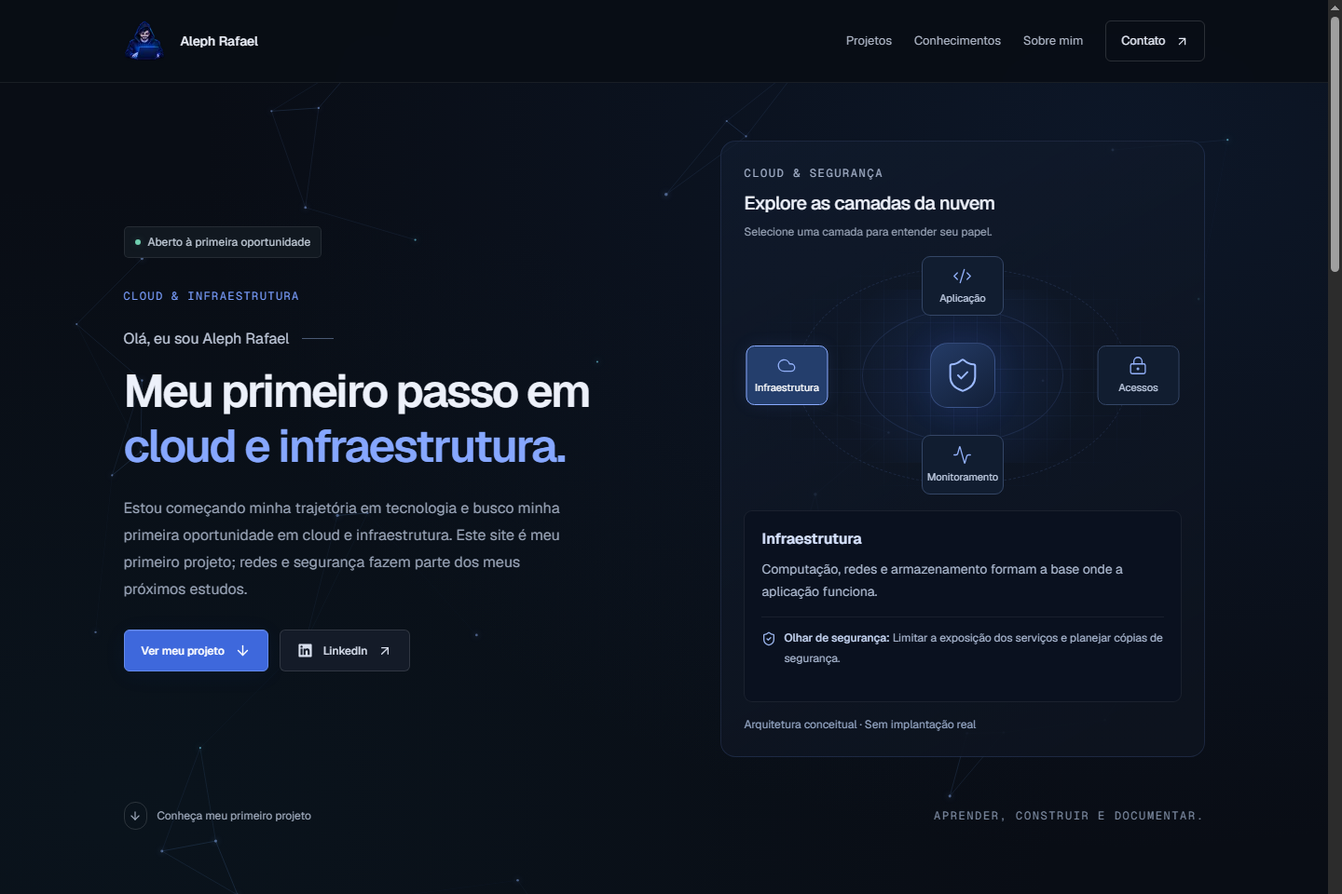
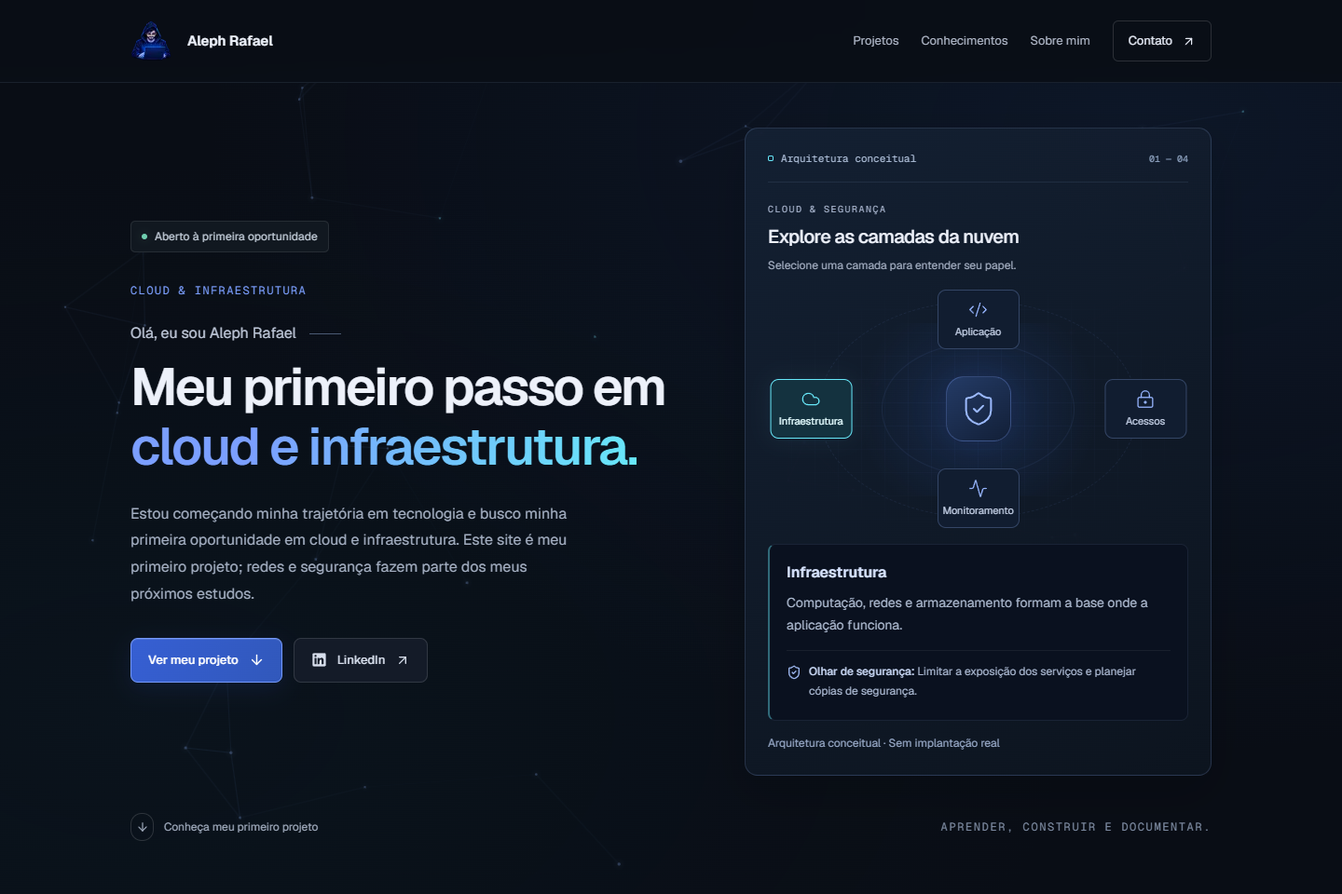
feat: atualização visual

diff --git a/app/globals.css b/app/globals.css
@@ -7,32 +7,48 @@
   --font-mono: "Geist Mono", monospace;
 }
 
-:root { color-scheme: dark; --bg: #090d15; --surface: #101620; --text: #edf1fa; --muted: #98a3b6; --blue: #7b9fff; --line: #ffffff12; }
+:root {
+  color-scheme: dark;
+  --bg: #090d15;
+  --surface: #101620;
+  --surface-raised: #142033;
+  --text: #edf1fa;
+  --muted: #a4afc2;
+  --blue: #7b9fff;
+  --cyan: #67e8f9;
+  --line: #9ab7e51c;
+  --border-panel: #8babe533;
+  --radius-panel: 14px;
+  --radius-control: 8px;
+  --shadow-panel: 0 18px 50px #00000026;
+  --shadow-active: 0 0 22px #67e8f914;
+  --transition: 200ms ease;
+}
 * { box-sizing: border-box; }
 html { scroll-behavior: smooth; scroll-padding-top: 105px; }
 body { margin: 0; background: var(--bg); color: var(--text); font-family: var(--font-sans); -webkit-font-smoothing: antialiased; isolation: isolate; }
 main, .site-footer { position: relative; z-index: 1; }
 /* Fixed decorative layer: never participates in page layout or hit testing. */
 .network-background { position: fixed; inset: 0; z-index: 0; pointer-events: none; overflow: hidden; background: radial-gradient(ellipse at 85% 15%, #18346040, transparent 58%), radial-gradient(ellipse at 10% 80%, #10384626, transparent 55%), #090d15; }
-.network-canvas { display: block; width: 100%; height: 100%; pointer-events: none; }
+.network-canvas { opacity: .55; display: block; width: 100%; height: 100%; pointer-events: none; }
 .background-toggle { position: fixed; right: max(16px, env(safe-area-inset-right)); bottom: max(16px, env(safe-area-inset-bottom)); z-index: 40; display: inline-flex; align-items: center; justify-content: center; gap: 9px; min-height: 44px; min-width: 44px; max-width: calc(100% - 32px); padding: 10px 14px; border: 1px solid #4b6895; border-radius: 8px; background: #111e33f5; color: #ccdbf7; box-shadow: 0 4px 20px #0004; font-size: 12px; line-height: 1.5; }
 .background-toggle:hover { background: #213858; border-color: #91b0ef; }
 body > .site-footer { padding-bottom: calc(80px + env(safe-area-inset-bottom, 0px)); }
 ::selection { background: #416ee5; color: white; }
 a { text-decoration: none; }
 button, a { -webkit-tap-highlight-color: transparent; }
-a:focus-visible, button:focus-visible, [tabindex]:focus-visible { outline: 2px solid #9eb9ff; outline-offset: 6px; border-radius: 4px; }
+a:focus-visible, button:focus-visible, [tabindex]:focus-visible { outline: 2px solid var(--cyan); outline-offset: 6px; border-radius: 4px; }
 .container { width: min(1160px, calc(100% - 96px)); margin-inline: auto; }
 .site-header { position: sticky; top: 0; z-index: 30; background: #090d15eb; border-bottom: 1px solid var(--line); backdrop-filter: blur(18px); }
 .header-inner { height: 88px; display: flex; align-items: center; justify-content: space-between; }
 .brand { display: inline-flex; align-items: center; gap: 15px; }
 .brand-avatar { width: 44px; height: 44px; flex-shrink: 0; object-fit: contain; image-rendering: pixelated; }
-.brand-name { font-size: 14px; font-weight: 500; margin-left: 2px; }
+.brand-name { font-size: 15px; font-weight: 600; margin-left: 2px; }
 nav { display: flex; align-items: center; gap: 24px; font-size: 13px; color: #b0b8c8; }
 nav a { display: inline-flex; align-items: center; justify-content: center; min-height: 44px; min-width: 44px; transition: color .2s; }
 nav a:hover { color: white; }
 .nav-contact { display: flex; align-items: center; gap: 10px; padding: 10px 16px; border: 1px solid #ffffff24; border-radius: 6px; color: #e5eaf5; }
-.hero { position: relative; min-height: 697px; display: grid; grid-template-columns: minmax(0, 1.15fr) minmax(0, 1fr); gap: 44px; align-items: center; padding-top: 62px; padding-bottom: 118px; }
+.hero { position: relative; min-height: 697px; display: grid; grid-template-columns: minmax(0, 1.22fr) minmax(0, 1fr); gap: 48px; align-items: center; padding-top: 48px; padding-bottom: 110px; }
 .hero-copy { position: relative; z-index: 2; }
 .availability { display: inline-flex; align-items: center; gap: 8px; color: #c2ccd8; font-size: 12px; letter-spacing: .15px; padding: 7px 11px; border: 1px solid #ffffff17; background: #111820; border-radius: 5px; margin-bottom: 31px; }
 .availability > span { height: 6px; width: 6px; background: #6fceaf; border-radius: 50%; box-shadow: 0 0 9px #6fceaf38; }
@@ -41,35 +57,36 @@ nav a:hover { color: white; }
 .hero-eyebrow { color: var(--blue); font-size: 12px; letter-spacing: 1.4px; margin-bottom: 22px; }
 .hero-intro { display: flex; gap: 14px; align-items: center; font-size: 16px; margin-bottom: 14px; color: #bdc6d7; }
 .intro-line { width: 34px; height: 1px; background: #4a5a74; }
-h1 { font-size: clamp(34px, 3.42vw, 49px); letter-spacing: -2.1px; line-height: 1.22; font-weight: 600; }
-h1 > span { color: #86a7ff; }
-.hero-description { color: var(--muted); font-size: 16px; line-height: 1.8; max-width: 470px; margin: 23px 0 29px; }
+h1 { font-size: clamp(34px, 3.9vw, 56px); letter-spacing: -2.3px; line-height: 1.14; font-weight: 600; text-wrap: balance; }
+h1 > span { color: var(--blue); background: linear-gradient(105deg, var(--blue) 25%, var(--cyan)); background-clip: text; -webkit-background-clip: text; -webkit-text-fill-color: transparent; }
+.hero-description { color: var(--muted); font-size: 16px; line-height: 1.8; max-width: 480px; margin: 26px 0 32px; }
 .social-links { display: flex; align-items: center; gap: 12px; flex-wrap: wrap; }
-.button { min-height: 45px; display: inline-flex; align-items: center; justify-content: center; gap: 11px; padding: 0 18px; border-radius: 6px; font-size: 12px; font-weight: 500; transition: background .2s, border-color .2s, transform .2s; }
-.button:hover { transform: translateY(-2px); }
-.button-primary { background: #3e68dc; border: 1px solid #668ced; color: white; box-shadow: inset 0 1px 0 #ffffff17, 0 4px 24px #3155ca12; }
-.button-primary:hover { background: #4e79ed; }
+.button { min-height: 48px; display: inline-flex; align-items: center; justify-content: center; gap: 11px; padding: 0 18px; border-radius: var(--radius-control); font-size: 13px; font-weight: 500; transition: background var(--transition), border-color var(--transition), transform var(--transition), box-shadow var(--transition); }
+.button:is(:hover, :focus-visible) { transform: translateY(-2px); box-shadow: var(--shadow-active); }
+.button-primary { background: linear-gradient(115deg, #365fd3, #3158bb); border: 1px solid #7599fa; color: white; box-shadow: inset 0 1px 0 #ffffff24, 0 6px 24px #3155ca24; }
+.button-primary:is(:hover, :focus-visible) { background: #3d64ce; border-color: #a8c2ff; }
 .button-secondary { background: #141b28; border: 1px solid #ffffff20; color: #d8dfed; }
-.button-secondary:hover { background: #202a3c; border-color: #ffffff40; }
+.button-secondary:is(:hover, :focus-visible) { background: #202a3c; border-color: #8cacdc; }
 .hero-bottom { position: absolute; bottom: 33px; width: 100%; display: flex; align-items: center; justify-content: space-between; }
 .hero-bottom > a { min-height: 44px; color: #a2adbf; font-size: 12px; display: flex; align-items: center; gap: 11px; }
 .scroll-icon { display: grid; place-items: center; width: 25px; height: 30px; border-radius: 12px; border: 1px solid #ffffff24; }
 .hero-footnote { max-width: 45%; text-align: right; color: #7f8da4; font-family: var(--font-mono); font-size: 12px; letter-spacing: 1.6px; }
 
 /* Interactive conceptual architecture. */
-.cloud-explorer { min-width: 0; border: 1px solid #7495ea26; border-radius: 16px; background: linear-gradient(150deg, #121d30a6, #0d131e); padding: 24px; }
+.cloud-explorer { min-width: 0; border: 1px solid var(--border-panel); border-radius: var(--radius-panel); background: linear-gradient(150deg, #142033f5, #0d141ff5); padding: 24px; box-shadow: var(--shadow-panel); }
 .explorer-heading h2 { font-size: 20px; letter-spacing: -.5px; margin-top: 8px; }
 .explorer-heading > p:last-child { color: var(--muted); font-size: 12px; margin-top: 8px; line-height: 1.7; }
 .cloud-visual { position: relative; isolation: isolate; min-height: 265px; margin-block: 12px; }
-.visual-grid { position: absolute; inset: 0; background-image: linear-gradient(#6b92f314 1px, transparent 1px), linear-gradient(90deg, #6b92f314 1px, transparent 1px); background-size: 25px 25px; mask-image: radial-gradient(ellipse at center, #000 12%, transparent 75%); }
-.orbit { position: absolute; border: 1px solid #7495ea24; border-radius: 50%; inset: 6% 12%; pointer-events: none; }
+.visual-grid { position: absolute; inset: 0; background-image: linear-gradient(#6b92f30c 1px, transparent 1px), linear-gradient(90deg, #6b92f30c 1px, transparent 1px); background-size: 25px 25px; mask-image: radial-gradient(ellipse at center, #000 12%, transparent 75%); }
+.orbit { position: absolute; border: 1px solid #7495ea18; border-radius: 50%; inset: 6% 12%; pointer-events: none; }
 .orbit-outer { border-style: dashed; }.orbit-middle { inset: 23% 27%; }
 .core-halo { position: absolute; inset: 15%; background: radial-gradient(circle, #305ec335, transparent 70%); pointer-events: none; }
 .explorer-core { position: absolute; top: 50%; left: 50%; transform: translate(-50%, -50%); display: grid; place-items: center; width: 70px; height: 70px; border: 1px solid #7ca0f84a; border-radius: 19px; color: #9cbaff; background: linear-gradient(145deg, #243b66, #121f37); box-shadow: 0 0 35px #416cdc24; }
 .cloud-node { position: absolute; display: flex; align-items: center; justify-content: center; gap: 8px; min-height: 48px; padding: 10px 12px; border: 1px solid #344666; border-radius: 9px; background: #111d30; font-size: 12px; color: #c2cee4; transition: border-color .2s, background .2s; }
 .cloud-node > svg { flex-shrink: 0; color: #93b1fa; }
-.cloud-node:hover { background: #1e3050; }
-.cloud-node[aria-pressed="true"] { border-color: #8aabff; background: #243e6c; color: #fff; box-shadow: 0 0 18px #6a98ff1a; }
+.cloud-node:is(:hover, :focus-visible) { background: #1e3050; border-color: var(--cyan); }
+.cloud-node[aria-pressed="true"] { border-color: var(--cyan); background: #14323f; color: #e3fcff; box-shadow: var(--shadow-active); }
+.cloud-node[aria-pressed="true"] > svg { color: var(--cyan); }
 /* Responsive orbit with upright labels and a shared angular clock. */
 @property --orbit-angle { syntax: "<angle>"; inherits: false; initial-value: 0deg; }
 .cloud-visual { container-type: inline-size; }
@@ -80,12 +97,7 @@ h1 > span { color: #86a7ff; }
 .node-access { --orbit-start: 0deg; }
 .node-monitoring { --orbit-start: 90deg; }
 @keyframes cloud-orbit { to { --orbit-angle: 360deg; } }
-.cloud-explorer[data-orbit-paused="true"] .cloud-node,
-.cloud-explorer:hover .cloud-node,
-.cloud-explorer:focus-within .cloud-node { animation-play-state: paused; }
-.motion-toggle { display: inline-flex; align-items: center; gap: 7px; min-height: 44px; color: #c2cee4; font-size: 12px; }
-.orbit-toggle { margin-top: 8px; }
-.explorer-description { position: relative; min-height: 206px; padding: 18px; border-radius: 9px; border: 1px solid #ffffff12; background: #0a111f; }
+.explorer-description { position: relative; min-height: 190px; padding: 18px; border-radius: var(--radius-control); border: 1px solid var(--line); border-left: 2px solid #67e8f96b; background: #0a111f; }
 .explorer-description h3 { font-size: 16px; font-weight: 600; color: #d8e4ff; }
 .explorer-description > p { font-size: 14px; line-height: 1.75; color: #aebbd1; margin-top: 8px; }
 .explorer-security { display: flex; gap: 8px; margin-top: 14px; padding-top: 12px; border-top: 1px solid #ffffff10; }
@@ -127,8 +139,10 @@ h2 { font-size: 29px; line-height: 1.25; letter-spacing: -1px; font-weight: 500;
 .about-note > span { color: #8aacff; margin-top: 2px; }.about-note > p { color: #b8c9e7; font-size: 14px; line-height: 1.9; }
 .contact-wrap { padding-bottom: 72px; }.contact-panel { position: relative; overflow: hidden; background: linear-gradient(110deg, #121e35, #101827 65%, #15233c); border: 1px solid #6489dc35; border-radius: 12px; padding: 43px 48px; }
 .contact-content { position: relative; z-index: 1; }.contact-content h2 { max-width: 450px; font-size: 34px; line-height: 1.25; margin-top: 15px; }.contact-description { color: #aab7cf; font-size: 16px; line-height: 1.9; max-width: 420px; margin-top: 17px; margin-bottom: 24px; }
-.contact-arrow { position: absolute; right: 65px; top: 80px; width: 150px; height: 150px; color: #789fef; transform: rotate(-3deg); }
-.contact-decoration { position: absolute; right: -50px; top: -100px; width: 480px; height: 480px; border: 1px solid #7f9eed12; border-radius: 50%; box-shadow: 0 0 0 65px #779cfa06, 0 0 0 130px #779cfa04; }
+.contact-network { position: absolute; right: 36px; top: 50%; transform: translateY(-50%); width: 34%; max-width: 360px; color: var(--cyan); pointer-events: none; }
+.contact-network path { stroke: currentColor; stroke-opacity: .22; stroke-width: 1; }
+.contact-network circle { stroke: currentColor; stroke-opacity: .5; fill: #142638; }
+
 .site-footer { border-top: 1px solid var(--line); }.footer-main { display: flex; align-items: center; justify-content: space-between; padding-block: 31px; gap: 24px; }.footer-name { font-size: 12px; font-weight: 500; }.footer-name small { display: block; font-weight: 400; font-size: 12px; color: #96a1b4; margin-top: 5px; }.compact { gap: 24px; }.social-text { min-height: 44px; display: flex; align-items: center; gap: 8px; color: #afbbcf; font-size: 12px; transition: color .2s; }.social-text:hover { color: white; }.footer-bottom { display: flex; align-items: center; justify-content: space-between; gap: 20px; padding-block: 18px 24px; border-top: 1px solid var(--line); color: #8e9bb1; font-size: 12px; }.footer-bottom a { min-height: 44px; display: flex; align-items: center; gap: 7px; }
 
 
@@ -146,13 +160,13 @@ button, a, .project-carousel { touch-action: manipulation; }
 .cover-grid { position: absolute; inset: 0; z-index: -1; background-image: linear-gradient(#6684b811 1px, transparent 1px), linear-gradient(90deg, #6684b811 1px, transparent 1px); background-size: 34px 34px; }
 .cover-art { width: 100%; max-width: 390px; }
 .cover-caption { position: absolute; bottom: 28px; left: 20px; right: 20px; font-family: var(--font-mono); font-size: 12px; letter-spacing: 1px; text-align: center; color: #9eafd1; }
-.project-cover-image img { object-fit: cover; }
+
 .project-copy { padding: 34px; min-width: 0; display: flex; flex-direction: column; justify-content: center; }
 .project-status { display: flex; align-items: center; gap: 8px; color: #b0bdd1; font-size: 12px; line-height: 1.65; margin-bottom: 27px; }
 .project-status > span { width: 6px; height: 6px; flex-shrink: 0; border-radius: 50%; background: #97a6bf; }
 .status-real { color: #9cdbbf; }.status-real > span { background: #86cba9; }
-.project-category { font-size: 12px; letter-spacing: 1px; color: #98b4f5; }
-.project-copy h3 { font-size: 32px; font-weight: 500; letter-spacing: -1px; line-height: 1.2; margin-top: 10px; }
+.project-category { font-family: var(--font-mono); font-size: 12px; letter-spacing: 1px; color: #98b4f5; }
+.project-copy h3 { font-size: 34px; font-weight: 600; letter-spacing: -1px; line-height: 1.2; margin-top: 10px; }
 .project-description { color: #adb9ce; font-size: 16px; line-height: 1.8; margin-top: 18px; }
 .project-tags { margin-top: 20px; }
 .project-details { margin-top: 25px; border-top: 1px solid #ffffff12; padding-top: 19px; }
@@ -194,13 +208,41 @@ button, a, .project-carousel { touch-action: manipulation; }
 .security-ring { border: 1px solid #76b1c84d; box-shadow: 0 0 0 22px #7daacc08, 0 0 0 44px #7daacc05; border-radius: 50%; display: grid; place-items: center; width: 165px; height: 165px; margin: 15px auto 55px; color: #a4d2e6; background: #20394c; }
 .security-layers { display: flex; flex-wrap: wrap; justify-content: center; gap: 8px; }.security-layers > span { display: flex; align-items: center; gap: 7px; border: 1px solid #8fc0d52b; border-radius: 5px; padding: 9px 10px; color: #b6cfdc; font-size: 12px; background: #172a38; }
 
+/* Shared panel language and restrained technical details. */
+.explorer-toolbar { display: flex; align-items: center; gap: 8px; padding-bottom: 16px; margin-bottom: 20px; border-bottom: 1px solid var(--line); color: #adbed7; font-family: var(--font-mono); font-size: 11px; }
+.panel-indicator { width: 6px; height: 6px; border: 1px solid var(--cyan); border-radius: 2px; flex-shrink: 0; }
+.panel-index { margin-left: auto; color: #8fa3c1; font-size: 10px; white-space: nowrap; }
+.cloud-explorer .explorer-heading .eyebrow { font-size: 10px; letter-spacing: 1.5px; }
+.section-heading h2 { text-wrap: balance; }
+.eyebrow > span { color: var(--cyan); }
+.skill-card, .toolbox, .project-slide, .contact-panel { border-color: var(--border-panel); border-radius: var(--radius-panel); box-shadow: var(--shadow-panel); }
+.skill-card { background: linear-gradient(135deg, #142033, #0f1723 75%); }
+.skill-icon, .tool-mark { border: 1px solid var(--border-panel); border-radius: var(--radius-control); background: #19283c; }
+.skill-icon { color: var(--cyan); }
+.tags > span { border-color: var(--border-panel); border-radius: 5px; background: #111e30; font-family: var(--font-mono); font-size: 11px; line-height: 1.7; }
+.project-tags > span { color: #c6d8ff; border-color: #7b9fff40; }
+.project-slide { background: linear-gradient(135deg, #152135, #101722); }
+.project-status { font-family: var(--font-mono); }
+.project-details h4 { color: #dce8ff; }
+.project-details li { font-size: 13px; }
+.project-browser { width: 100%; min-width: 0; border: 1px solid #779bd255; border-radius: 10px; overflow: hidden; background: #090d15; box-shadow: 0 20px 50px #0005; }
+.project-browser-bar { display: flex; align-items: center; justify-content: space-between; gap: 10px; min-height: 38px; padding: 10px 13px; border-bottom: 1px solid var(--line); background: #172338; color: #acbdd6; font-family: var(--font-mono); font-size: 10px; }
+.browser-dots { display: flex; gap: 5px; }
+.browser-dots i { width: 5px; height: 5px; border-radius: 50%; background: #7385a0; }
+.browser-dots i:first-child { background: #7b9fff; }
+.project-browser-screen { position: relative; width: 100%; aspect-ratio: 3 / 2; }
+.contact-panel { background: radial-gradient(ellipse at 90% 50%, #16465b33, transparent 60%), linear-gradient(110deg, #14223b, #101827 70%); }
+nav a:is(:hover, :focus-visible), .social-text:is(:hover, :focus-visible) { color: var(--cyan); }
+.nav-contact:is(:hover, :focus-visible) { border-color: var(--cyan); }
+@media (forced-colors: active) { h1 > span { background: none; -webkit-text-fill-color: currentColor; } }
+
 @media (max-width: 1100px) {
   .container { width: calc(100% - 64px); }
   .hero { gap: 28px; }
   h1 { font-size: 38px; letter-spacing: -1.7px; }
   .brand-name { display: none; }
   .toolbox-label { padding-right: 20px; }.tools-grid { padding-left: 20px; gap: 10px; }
-  .about { gap: 50px; }.contact-arrow { right: 30px; width: 100px; opacity: .5; }
+  .about { gap: 50px; }.contact-network { right: 20px; opacity: .6; }
   .section-heading { align-items: start; }.section-heading > p { max-width: 320px; }
   .cloud-explorer { padding: 18px; }.cloud-node { padding-inline: 8px; gap: 5px; }
   .explorer-core { width: 50px; height: 50px; }.explorer-core svg { width: 29px; }
@@ -231,7 +273,7 @@ button, a, .project-carousel { touch-action: manipulation; }
   .project-copy { min-height: 450px; padding: 32px; }
   .project-status { margin-bottom: 22px; }
   .about { grid-template-columns: 1fr 1.1fr; gap: 32px; }.about h2 { font-size: 30px; }
-  .contact-panel { padding: 35px; }.contact-content h2 { max-width: 400px; }.contact-arrow { opacity: .15; }
+  .contact-panel { padding: 35px; }.contact-content h2 { max-width: 400px; }.contact-network { opacity: .25; }
   .contact-wrap { padding-bottom: 50px; }
 }
 @media (max-width: 600px) {
@@ -264,7 +306,7 @@ button, a, .project-carousel { touch-action: manipulation; }
   .carousel-hint { text-align: center; }
   .about { grid-template-columns: 1fr; gap: 30px; }.about h2 { max-width: 310px; font-size: 32px; }.about-copy { padding: 0; }
   .about-signature { margin-top: 23px; }.about-signature small { font-size: 12px; letter-spacing: 1px; }
-  .contact-panel { padding: 30px 23px; }.contact-content h2 { font-size: 29px; }.contact-arrow { display: none; }
+  .contact-panel { padding: 30px 23px; }.contact-content h2 { font-size: 29px; }.contact-network { display: none; }
   .contact-description { font-size: 16px; }.contact-panel .button { font-size: 12px; padding-inline: 13px; }
   .footer-main { align-items: start; flex-direction: column; gap: 20px; }.footer-bottom { align-items: start; flex-direction: column; gap: 4px; font-size: 12px; }.footer-bottom p { line-height: 1.8; }
   .footer-name small { font-size: 12px; line-height: 1.7; }
@@ -280,11 +322,12 @@ button, a, .project-carousel { touch-action: manipulation; }
 /* Keep orbit cards compact at every breakpoint. */
 .cloud-visual .cloud-node { padding: 6px 3px; font-size: 11px; gap: 5px; }
 @media (prefers-reduced-motion: reduce) {
-  .orbit-toggle { display: none; }
   .background-toggle { display: none; }
   html { scroll-behavior: auto; }
   *, *::before, *::after { animation: none !important; transition: none !important; }
-  .button:hover { transform: none; }
+  /* The cloud orbit deliberately runs continuously, including reduced motion. */
+  .cloud-node { animation: cloud-orbit 15s linear infinite !important; }
+  .button:is(:hover, :focus-visible) { transform: none; }
 }
 
 /* Evidence first: delivered work and future studies have distinct weight. */
@@ -292,14 +335,14 @@ button, a, .project-carousel { touch-action: manipulation; }
 .studies-heading h3, .interests-title { font-size: 18px; font-weight: 500; }
 .studies-heading > p { color: var(--muted); font-size: 14px; line-height: 1.8; margin-top: 8px; }
 .study-grid { display: grid; grid-template-columns: repeat(3, minmax(0, 1fr)); gap: 16px; margin-top: 20px; }
-.study-card { padding: 22px; border: 1px solid var(--line); border-radius: 10px; background: #0e1622; }
+.study-card { padding: 22px; border: 1px solid var(--line); border-radius: var(--radius-control); background: #0c131ee8; }
 .study-status { color: #aabbd7; font-family: var(--font-mono); font-size: 11px; text-transform: uppercase; letter-spacing: 1px; }
 .study-card h4 { font-size: 16px; font-weight: 500; margin-top: 12px; }
 .study-card h4 + p { color: var(--muted); font-size: 14px; line-height: 1.8; margin-top: 10px; }
 .study-card .tags { margin-top: 16px; }
 .knowledge .toolbox { margin-top: 0; }
 .interests-title { margin: 32px 0 18px; }
-.project-cover-image img { object-fit: contain; padding: 18px; }
+.project-cover-image img { object-fit: contain; padding: 0; }
 @media (max-width: 800px) { .study-grid { grid-template-columns: 1fr; } }
 
 @media (max-width: 360px) {

diff --git a/app/page.tsx b/app/page.tsx
@@ -78,7 +78,7 @@ export default function Home() {
       </section>
 
       <section id="contato" className="container contact-wrap" aria-labelledby="contact-title">
-        <ScrollReveal><div className="contact-panel"><div className="contact-decoration" aria-hidden="true" /><div className="contact-content"><p className="eyebrow"><span>04 /</span> VAMOS CONVERSAR</p><h2 id="contact-title">{p.contact.title}</h2><p className="contact-description">{p.contact.description}</p><SocialLinks /></div><ArrowUpRight className="contact-arrow" strokeWidth={0.8} aria-hidden="true" /></div></ScrollReveal>
+        <ScrollReveal><div className="contact-panel"><svg className="contact-network" viewBox="0 0 360 320" fill="none" aria-hidden="true"><path d="M36 160H132L212 80H324M132 160L212 240H324M212 80V240M212 160H324" /><circle cx="36" cy="160" r="6" /><circle cx="132" cy="160" r="9" /><circle cx="212" cy="80" r="6" /><circle cx="212" cy="240" r="6" /><circle cx="324" cy="80" r="4" /><circle cx="324" cy="160" r="4" /><circle cx="324" cy="240" r="4" /></svg><div className="contact-content"><p className="eyebrow"><span>04 /</span> VAMOS CONVERSAR</p><h2 id="contact-title">{p.contact.title}</h2><p className="contact-description">{p.contact.description}</p><SocialLinks /></div></div></ScrollReveal>
       </section>
     </main>
     <footer className="container site-footer"><div className="footer-main"><a className="brand" href="#inicio" aria-label="Voltar ao início"><BrandAvatar /><span className="footer-name">{p.name}<small>Cloud e infraestrutura · Em formação.</small></span></a><SocialLinks compact /></div><div className="footer-bottom"><p>{p.footerNote}</p><a href="#inicio">Voltar ao topo <ArrowRight size={13} className="-rotate-90" /></a></div></footer>

diff --git a/components/cloud-visual.tsx b/components/cloud-visual.tsx
@@ -1,21 +1,20 @@
 "use client";
 
 import { useId, useState } from "react";
-import { Activity, Cloud, Code2, LockKeyhole, Pause, Play, ShieldCheck } from "lucide-react";
+import { Activity, Cloud, Code2, LockKeyhole, ShieldCheck } from "lucide-react";
 import { cloudDiagram } from "@/content/portfolio";
 
 const icons = { code: Code2, cloud: Cloud, lock: LockKeyhole, activity: Activity };
 
 export function CloudVisual() {
   const [selected, setSelected] = useState<string>("infrastructure");
-  const [paused, setPaused] = useState(false);
   const id = useId();
   const node = cloudDiagram.nodes.find(item => item.id === selected) ?? cloudDiagram.nodes[1];
 
   return (
-    <section className="cloud-explorer" data-orbit-paused={paused} aria-labelledby={`${id}-title`}>
+    <section className="cloud-explorer" aria-labelledby={`${id}-title`}>
+      <div className="explorer-toolbar"><span className="panel-indicator" aria-hidden="true" />Arquitetura conceitual<span className="panel-index" aria-hidden="true">01 — 04</span></div>
       <div className="explorer-heading"><p className="eyebrow">CLOUD & SEGURANÇA</p><h2 id={`${id}-title`}>{cloudDiagram.title}</h2><p>{cloudDiagram.hint}</p></div>
-      <button type="button" className="motion-toggle orbit-toggle" onClick={() => setPaused(value => !value)}>{paused ? <Play size={15} aria-hidden="true" /> : <Pause size={15} aria-hidden="true" />}{paused ? "Retomar órbita" : "Pausar órbita"}</button>
       <div className="cloud-visual">
         <div className="visual-grid" aria-hidden="true" />
         <div className="orbit orbit-outer" aria-hidden="true" />

diff --git a/tests/interactions.test.tsx b/tests/interactions.test.tsx
@@ -209,7 +209,7 @@ test("autoplay pauses for interaction, visibility and explicit pause", t => {
   assert.equal(env.timers.size, 1);
 });
 
-test("reduced motion starts with autoplay off and orbit has a pause control", t => {
+test("reduced motion starts with autoplay off while cloud layers remain selectable without a pause control", t => {
   const env = autoplayEnvironment(t, true);
   const view = render(<ProjectCarousel projects={projects} />);
   assert.equal(env.timers.size, 0);
@@ -217,8 +217,9 @@ test("reduced motion starts with autoplay off and orbit has a pause control", t 
   assert.equal(env.timers.size, 1);
   view.unmount();
   const diagram = render(<CloudVisual />);
-  fireEvent.click(diagram.getByRole("button", { name: "Pausar órbita" }));
-  assert.equal(diagram.container.querySelector(".cloud-explorer")?.getAttribute("data-orbit-paused"), "true");
-  fireEvent.click(diagram.getByRole("button", { name: "Retomar órbita" }));
-  assert.equal(diagram.container.querySelector(".cloud-explorer")?.getAttribute("data-orbit-paused"), "false");
+  assert.equal(diagram.queryByRole("button", { name: /órbita/i }), null);
+  const application = diagram.getByRole("button", { name: "Aplicação" });
+  fireEvent.click(application);
+  assert.equal(application.getAttribute("aria-pressed"), "true");
+  assert.ok(diagram.getByRole("heading", { name: "Aplicação" }));
 });

diff --git a/components/project-cover.tsx b/components/project-cover.tsx
@@ -5,7 +5,14 @@ import type { Project } from "@/content/portfolio";
 
 export function ProjectCover({ cover }: { cover: Project["cover"] }) {
   if (cover.image) {
-    return <div className="project-cover project-cover-image"><Image src={cover.image} alt={cover.alt} fill sizes="(max-width: 800px) 100vw, 560px" /></div>;
+    return <div className="project-cover project-cover-image">
+      <div className="cover-grid" aria-hidden="true" />
+      <div className="project-browser">
+        <div className="project-browser-bar" aria-hidden="true"><span className="browser-dots"><i /><i /><i /></span><span>prévia do projeto</span><Globe size={14} /></div>
+        <div className="project-browser-screen"><Image src={cover.image} alt={cover.alt} fill sizes="(max-width: 800px) 90vw, 500px" /></div>
+      </div>
+      <span className="cover-caption" aria-hidden="true">INTERFACE · CÓDIGO · CONEXÕES</span>
+    </div>;
   }
 
   return (

diff --git a/README.md b/README.md
@@ -51,7 +51,7 @@ Com dois ou mais projetos reais, o carrossel alterna a cada 6 segundos em loop. 
 
 ## Diagrama e compartilhamento
 
-As explicações do diagrama ficam no objeto `cloudDiagram`, no mesmo arquivo de conteúdo. É uma arquitetura conceitual educativa, sem conexão com uma conta AWS ou serviços reais. A órbita dura 15 segundos, pausa com hover, foco ou controle de pausa e fica estática com movimento reduzido.
+As explicações do diagrama ficam no objeto `cloudDiagram`, no mesmo arquivo de conteúdo. É uma arquitetura conceitual educativa, sem conexão com uma conta AWS ou serviços reais. A órbita gira continuamente, com uma volta a cada 15 segundos, sem pausar por hover, foco ou seleção das camadas e sem controle de pausa. Por decisão visual, ela também continua com movimento reduzido; as demais animações preservam essa preferência. O navegador ainda pode suspender animações em abas ocultas ou quando o dispositivo estiver suspenso.
 
 `app/opengraph-image.tsx` gera uma imagem PNG de 1200 × 630 com fontes locais. Antes da publicação, copie `.env.example` para `.env.local` e configure `SITE_URL` com a URL pública real, incluindo `https://`. O valor local padrão é `http://localhost:3000`. Refaça o build depois da alteração. Revise o conteúdo e os links antes de habilitar a indexação.
 
